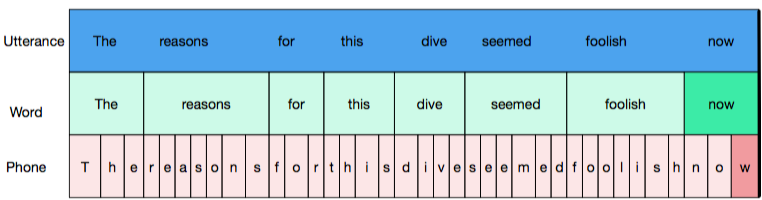
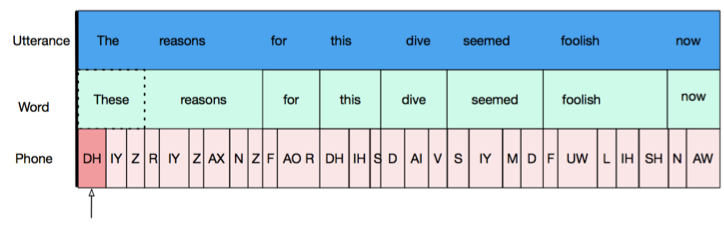
updated images/example narrative

diff --git a/docs/source/additional/filters.rst b/docs/source/additional/filters.rst
@@ -4,17 +4,21 @@
 Filters Explained
 *****************
 
-So far, there has been a lot of talk about filters and alignment, but these can be a difficult-to-grasp concepts. These illustrated examples might be helpful in gleaning a better understanding of what is meant by "filter" and "alignment".
+So far, there has been a lot of talk about objects, filters, and alignment, but these can be a difficult-to-grasp concepts. These illustrated examples might be helpful in gleaning a better understanding of what is meant by "object", "filter" and "alignment".
 
-Let's begin with a sample sentence. It has been split into the utterance (the whole sentence), words, and phones (for this example, the orthographic letters). 
+The easiest way to start is with an example. Let's say the user wanted to search for **word-final fricatives in utterance-initial words**
 
+While to a person this seems like a fairly simple tast that can be accomplished at a glance, for SCT it has to be broken up into its constituent steps. Let's see how this works on this sample sentence: 
 	.. image:: fullsentence.png
 		:width: 760px
 		:height: 200px
 		:align: center
 		:alt: Image cannot be displayed in your browser
+Here, each level (utterance, word, phone) corresponds to an object. Since we are ultimately looking for fricatives, we would want to select "phones" as our linguistic object to find. 
 
-Each object (utterances, words, phones) has two boundaries, left and right. These are represented by the walls of the boxes containing each object in the picture. To be "aligned", two objects must share a boundary. For example, the non-opaque objects in the next 2 figures are all aligned. Shared boundaries are indicated by thick black lines.
+Right now we have all phones selected, since we haven't added any filters. Let's limit these phones by adding the first part of our desired query: word-final phones. To accomplish this, we need to grasp the idea of alignment. 
+
+Each object (utterances, words, phones) has two boundaries, left and right. These are represented by the walls of the boxes containing each object in the picture. To be "aligned", two objects must share a boundary. For example, the non-opaque objects in the next 2 figures are all aligned. Shared boundaries are indicated by thick black lines. Parent objects (for example, words in which a target phone is found) are outlined in dashed lines. In the first picture, the words and phones are "left aligned" with the utterance (their left boundaries are the same as that of the utterance) and in the second image, words and phones are "right aligned" with the utterance. 
 
 	.. image:: ex1.png
 		:width: 760px
@@ -29,9 +33,53 @@ Each object (utterances, words, phones) has two boundaries, left and right. Thes
 		:align: center
 		:alt: Image cannot be displayed in your browser
 
-In fact, we can say that in the first picture, the words and phones are "left aligned" with the utterance (their left boundaries are the same as that of the utterance) and in the second image, words and phones are "right aligned" with the utterance. 
+Now that we understand alignment, we can use it to filter for **word-final** phones, by adding in this filter:
 
-Sometimes, we want to select different boundaries for different levels of objects. For example, in the following figure, we are selecting the word that is "left aligned" with the utterance, but the phone that is "right aligned" with that word. 
+	.. image:: ex3filt1.png
+		:width: 566px
+		:height: 132px
+		:align: center
+		:alt: Image cannot be displayed in your browser
+
+By specifying that we only want phones which share a right boundary with a word, we are getting all **word-final** phones.
+
+	.. image:: ex5.png
+		:width: 760px
+		:height: 200px
+		:align: center
+		:alt: Image cannot be displayed in your browser
+
+However, recall that our query asked for **word-final fricatives**, and not all phones. This can easily be remedied by adding another filter \*:
+
+	.. image:: fricativefilter.png
+		:width: 616px
+		:height: 150px
+		:align: center
+		:alt: Image cannot be displayed in your browser
+
+\* **NB** the "fricative" property is only availably through `enrichment <http://sct.readthedocs.io/en/latest/additional/enrichment.html>`_
+
+Now the following phones are found:
+
+
+	.. image:: ex6.png
+		:width: 760px
+		:height: 200px
+		:align: center
+		:alt: Image cannot be displayed in your browser
+
+Finally, in our query we wanted to specify only **utterance-intial** words. This will again be done with alignment. Since English reads left to right, the first word in an utterance will be the leftmost word, or the word which shares its leftmost boundary with the utterance. To get this, we add the filter: 
+
+	.. image:: finalfilter.png 
+		:width: 609px
+		:height: 170px
+		:align: center
+		:alt: Image cannot be displayed in your browser
+
+
+
+This gives us the result we are looking for: **word-final fricatives in utterance-initial words**
+
 
 	.. image:: ex3.png
 		:width: 760px
@@ -39,33 +87,9 @@ Sometimes, we want to select different boundaries for different levels of object
 		:align: center
 		:alt: Image cannot be displayed in your browser
 
-This is a good time to show how these examples translate into filters. 
-For the first two examples, the filters would be quite simple.
-	
-	.. image:: ex1filt1.png
-		:width: 727px
-		:height: 187px
-		:align: center
-		:alt: Image cannot be displayed in your browser
-
-	.. image:: ex1filt2.png
-		:width: 727px
-		:height: 187px
-		:align: center
-		:alt: Image cannot be displayed in your browser
 
 
-We are looking for the smallest object (phones) and want to specify that their alignment is right/left with the object one level up (words). Then we also want to specify that the words should be right/left aligned with the level above them (utterances). This gives us all utterance-initial phones -- since the phones are word-initial and the words are utterance-initial. 
-
- For the third example, we only need to alter the filters slightly. We are still looking for utterance-intial words, so that filter does not change. However, we will change the first filter to make the phones right-aligned with words. This way we are getting word-final phones of utterance-intial words. 
-
- 	.. image:: ex1filt3.png
-		:width: 727px
-		:height: 187px
-		:align: center
-		:alt: Image cannot be displayed in your browser
-
-What if we wanted the final segment of the second word in an utterance? 
+Another thing we can do is specify previous and following words/phones and their properties. For example: what if we wanted the final segment of the second word in an utterance? 
 
 	.. image:: ex4.png
 		:width: 760px
@@ -77,41 +101,8 @@ What if we wanted the final segment of the second word in an utterance?
 This is where the "following" and "previous" options come into play. We can use "previous" to specify the object before the one we are looking for. If we wanted the last phone of the second word in our sample utterance (the "s" in "reasons") we would want to specify something about the previous word's alignment. If we wanted to get the final phone of the words in this position, our filters would be: 
 
 	.. image:: ex2filt1.png
-		:width: 760px
-		:height: 200px
-		:align: center
-		:alt: Image cannot be displayed in your browser
-
-
-In all these examples, we only end up with one phone per utterance. However, this is certainly not always the case. For example, say we wanted every word-final phone. In this case, we no longer care about word alignment in the utterance, but we do care about phone alignment in the word. We would strip away our second filter. 
-	
-	.. image:: ex3filt1.png
-		:width: 760px
-		:height: 200px
-		:align: center
-		:alt: Image cannot be displayed in your browser
-
-As you can see, the fewer filters we have, the larger our set of results becomes. Recall that when we had no filters, all of the words and phones were in the set of results. 
-
-	.. image:: ex5.png
-		:width: 760px
-		:height: 200px
-		:align: center
-		:alt: Image cannot be displayed in your browser
-
-We can narrow our results by specifiying a subset of these phones we want. Say we had enriched the corpus earlier and encoded which segments are fricatives. We could get the following result
-
-	.. image:: ex6.png
-		:width: 760px
-		:height: 200px
-		:align: center
-		:alt: Image cannot be displayed in your browser
-
-by using these filters:
-
-	.. image:: ex4filt1.png
-		:width: 760px
-		:height: 200px
+		:width: 645px
+		:height: 135px
 		:align: center
 		:alt: Image cannot be displayed in your browser
 
